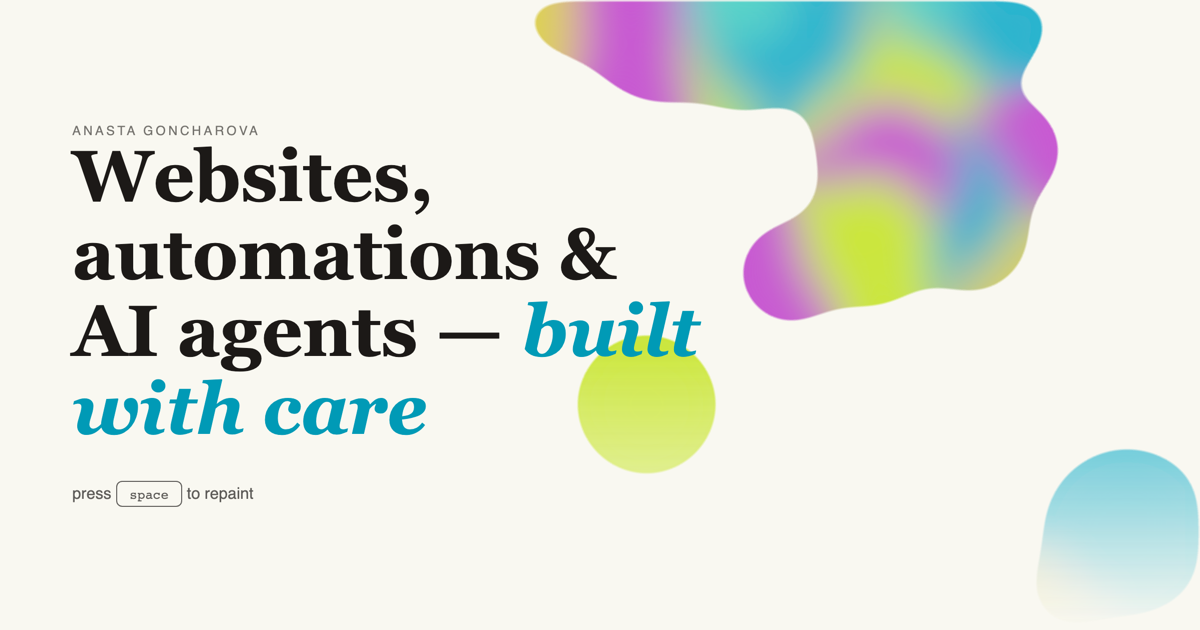
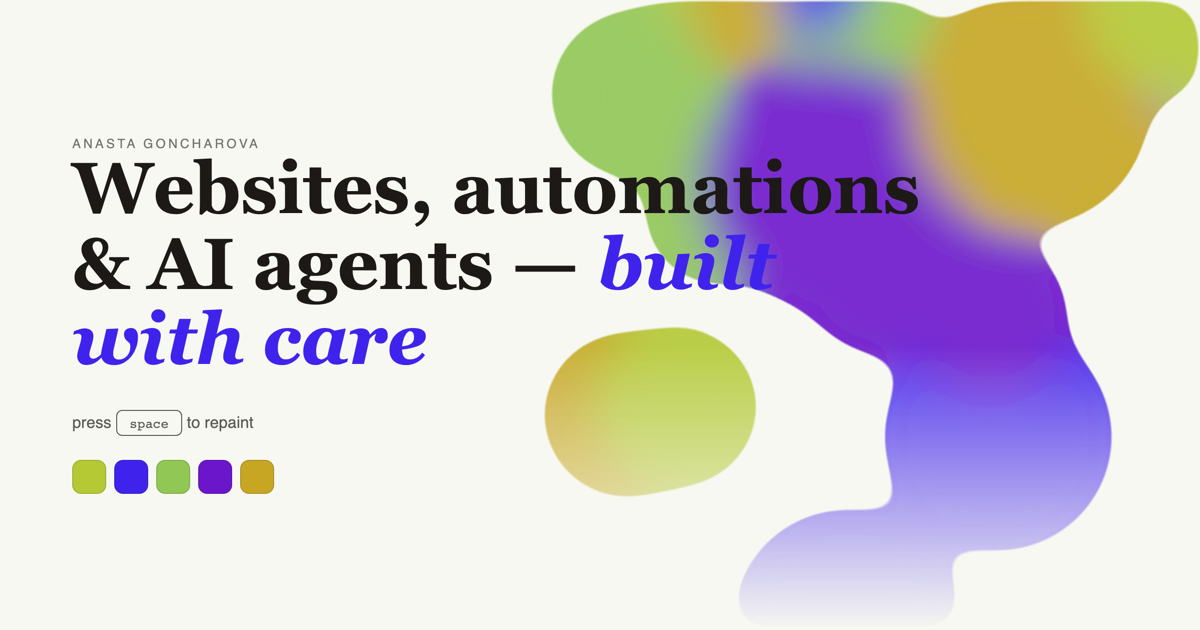
feat: design v2 from Claude Design — palette chips, numbered pillars & work rows, tinted curtain, footer dots (#5)

diff --git a/src/styles/layout.scss b/src/styles/layout.scss
@@ -10,7 +10,34 @@ main, footer { position: relative; z-index: 1; }
   align-items: center;
 }
 
-.hero-copy { max-width: min(48rem, 92vw); }
+.hero-copy { max-width: min(54rem, 92vw); }
+
+.chips {
+  display: flex;
+  align-items: center;
+  gap: 8px;
+  margin-top: 1.5rem;
+
+  .chip {
+    width: 34px;
+    height: 34px;
+    border-radius: 9px;
+    border: 1px solid color-mix(in srgb, var(--ink) 14%, transparent);
+    cursor: pointer;
+    padding: 0;
+  }
+  @for $i from 1 through 5 {
+    .chip:nth-child(#{$i}) { background: var(--c#{$i}); }
+  }
+  .chip:focus-visible { outline: 3px solid var(--accent); }
+
+  #chip-msg {
+    font-family: ui-monospace, Menlo, monospace;
+    font-size: 0.72rem;
+    opacity: 0.55;
+    margin-left: 6px;
+  }
+}
 
 .hint {
   margin-top: 2rem;
@@ -33,6 +60,27 @@ main, footer { position: relative; z-index: 1; }
   grid-template-columns: repeat(auto-fit, minmax(240px, 1fr));
   gap: 2rem;
   align-content: center;
+
+  .pillar {
+    border-top: 1px solid color-mix(in srgb, var(--ink) 14%, transparent);
+    padding-top: 1.2rem;
+
+    h2 { font-size: 1.65rem; margin: 0 0 0.6rem; }
+    p { margin: 0; line-height: 1.55; opacity: 0.85; }
+  }
+
+  .pillar-head {
+    display: flex;
+    align-items: center;
+    gap: 10px;
+    margin-bottom: 1rem;
+
+    .bar { display: block; width: 44px; height: 3px; }
+    .num { font-family: var(--serif); font-style: italic; font-size: 1rem; opacity: 0.5; }
+  }
+  @for $i from 1 through 3 {
+    .pillar:nth-child(#{$i}) .bar { background: var(--c#{$i}); }
+  }
 }
 
 #work-list {
@@ -52,12 +100,24 @@ main, footer { position: relative; z-index: 1; }
     color: var(--ink);
     transition: background 0.3s;
 
+    .g { display: flex; align-items: baseline; gap: 1rem; min-width: 0; }
+    .num { font-family: var(--serif); font-style: italic; font-size: 0.95rem; opacity: 0.45; flex: none; }
     .t { font-family: var(--serif); font-style: italic; font-size: clamp(1.2rem, 3vw, 2rem); }
     .d { font-size: 0.85rem; opacity: 0.65; text-align: right; }
   }
 
   a:hover,
   a:focus-visible { background: color-mix(in srgb, var(--row-c, var(--c1)) 18%, transparent); }
+}
+
+#curtain {
+  background: color-mix(in srgb, var(--c2) 9%, var(--paper));
+
+  > p {
+    max-width: 42rem;
+    font-size: clamp(1.05rem, 1.6vw, 1.3rem);
+    line-height: 1.55;
+  }
 }
 
 .marquee {
@@ -81,7 +141,15 @@ main, footer { position: relative; z-index: 1; }
   padding: clamp(3rem, 8vw, 6rem);
 
   a { color: var(--paper); font-size: 1.4rem; margin-right: 2rem; }
-  .colophon { margin-top: 2rem; opacity: 0.5; font-size: 0.85rem; }
+  .dots {
+    display: flex;
+    gap: 8px;
+    margin-top: 2.2rem;
+
+    span { width: 12px; height: 12px; border-radius: 50%; }
+    @for $i from 1 through 5 { span:nth-child(#{$i}) { background: var(--c#{$i}); } }
+  }
+  .colophon { margin-top: 1rem; opacity: 0.5; font-size: 0.85rem; }
 }
 
 @media (prefers-reduced-motion: reduce) {

diff --git a/src/main.ts b/src/main.ts
@@ -69,6 +69,19 @@ async function boot(): Promise<void> {
   }
 
   document.querySelector('#shuffle')!.addEventListener('click', shuffle);
+
+  const chipMsg = document.querySelector<HTMLElement>('#chip-msg')!;
+  let chipTimer = 0;
+  document.querySelectorAll<HTMLButtonElement>('.chip').forEach(chip => {
+    chip.addEventListener('click', () => {
+      const hex = getComputedStyle(document.documentElement)
+        .getPropertyValue(chip.dataset.var!).trim();
+      navigator.clipboard?.writeText(hex);
+      chipMsg.textContent = `${hex} copied`;
+      clearTimeout(chipTimer);
+      chipTimer = window.setTimeout(() => { chipMsg.textContent = ''; }, 1600);
+    });
+  });
   window.addEventListener('keydown', e => {
     if (e.code === 'Space' && !(e.target instanceof HTMLButtonElement)) { e.preventDefault(); shuffle(); }
   });

diff --git a/index.html b/index.html
@@ -21,19 +21,30 @@
           <p class="hint">
             press <button id="shuffle" aria-label="Generate a new color palette"><kbd>space</kbd></button> to repaint
           </p>
+          <div class="chips">
+            <button class="chip" data-var="--c1" title="click to copy hex" aria-label="Copy color 1 hex"></button>
+            <button class="chip" data-var="--c2" title="click to copy hex" aria-label="Copy color 2 hex"></button>
+            <button class="chip" data-var="--c3" title="click to copy hex" aria-label="Copy color 3 hex"></button>
+            <button class="chip" data-var="--c4" title="click to copy hex" aria-label="Copy color 4 hex"></button>
+            <button class="chip" data-var="--c5" title="click to copy hex" aria-label="Copy color 5 hex"></button>
+            <span id="chip-msg" aria-live="polite"></span>
+          </div>
         </div>
       </section>
 
       <section id="pillars">
         <div class="pillar" data-reveal>
+          <div class="pillar-head" aria-hidden="true"><span class="bar"></span><span class="num">01</span></div>
           <h2>TYPO3 × AI</h2>
           <p>Agent skills that teach Claude to build TYPO3 sites — schema-first writes, safe workflows, real production rules.</p>
         </div>
         <div class="pillar" data-reveal>
+          <div class="pillar-head" aria-hidden="true"><span class="bar"></span><span class="num">02</span></div>
           <h2>Automation</h2>
           <p>n8n pipelines and MCP servers: leads to CRM, AI content into the CMS, reports that send themselves.</p>
         </div>
         <div class="pillar" data-reveal>
+          <div class="pillar-head" aria-hidden="true"><span class="bar"></span><span class="num">03</span></div>
           <h2>Craft</h2>
           <p>Six years of client sites at a German agency: 16 TYPO3 extensions with test suites, 40+ launches, accessibility-minded.</p>
         </div>
@@ -59,6 +70,7 @@
         <a href="https://www.linkedin.com/in/anasta-goncharova/">LinkedIn</a>
         <a href="https://github.com/AnastaCodes">GitHub</a>
       </nav>
+      <div class="dots" aria-hidden="true"><span></span><span></span><span></span><span></span><span></span></div>
       <p class="colophon">Built with GSAP, chroma-js &amp; Claude.</p>
     </footer>
     <script type="module" src="/src/main.ts"></script>

diff --git a/src/styles/type.scss b/src/styles/type.scss
@@ -10,8 +10,8 @@ h1, h2 {
 }
 
 h1 {
-  font-size: clamp(2.2rem, 6vw, 4.5rem);
-  line-height: 1.08;
+  font-size: clamp(2.3rem, 6vw, 4.8rem);
+  line-height: 1.05;
 
   em {
     font-style: italic;

diff --git a/src/sections/work.ts b/src/sections/work.ts
@@ -11,6 +11,6 @@ const WORKS: WorkItem[] = [
 export function renderWork(list: HTMLElement): void {
   list.innerHTML = WORKS.map((w, i) => `
     <li><a href="${w.href}" style="--row-c: var(--c${(i % 5) + 1})">
-      <span class="t">${w.title}</span><span class="d">${w.desc}</span>
+      <span class="g"><span class="num">0${i + 1}</span><span class="t">${w.title}</span></span><span class="d">${w.desc}</span>
     </a></li>`).join('');
 }